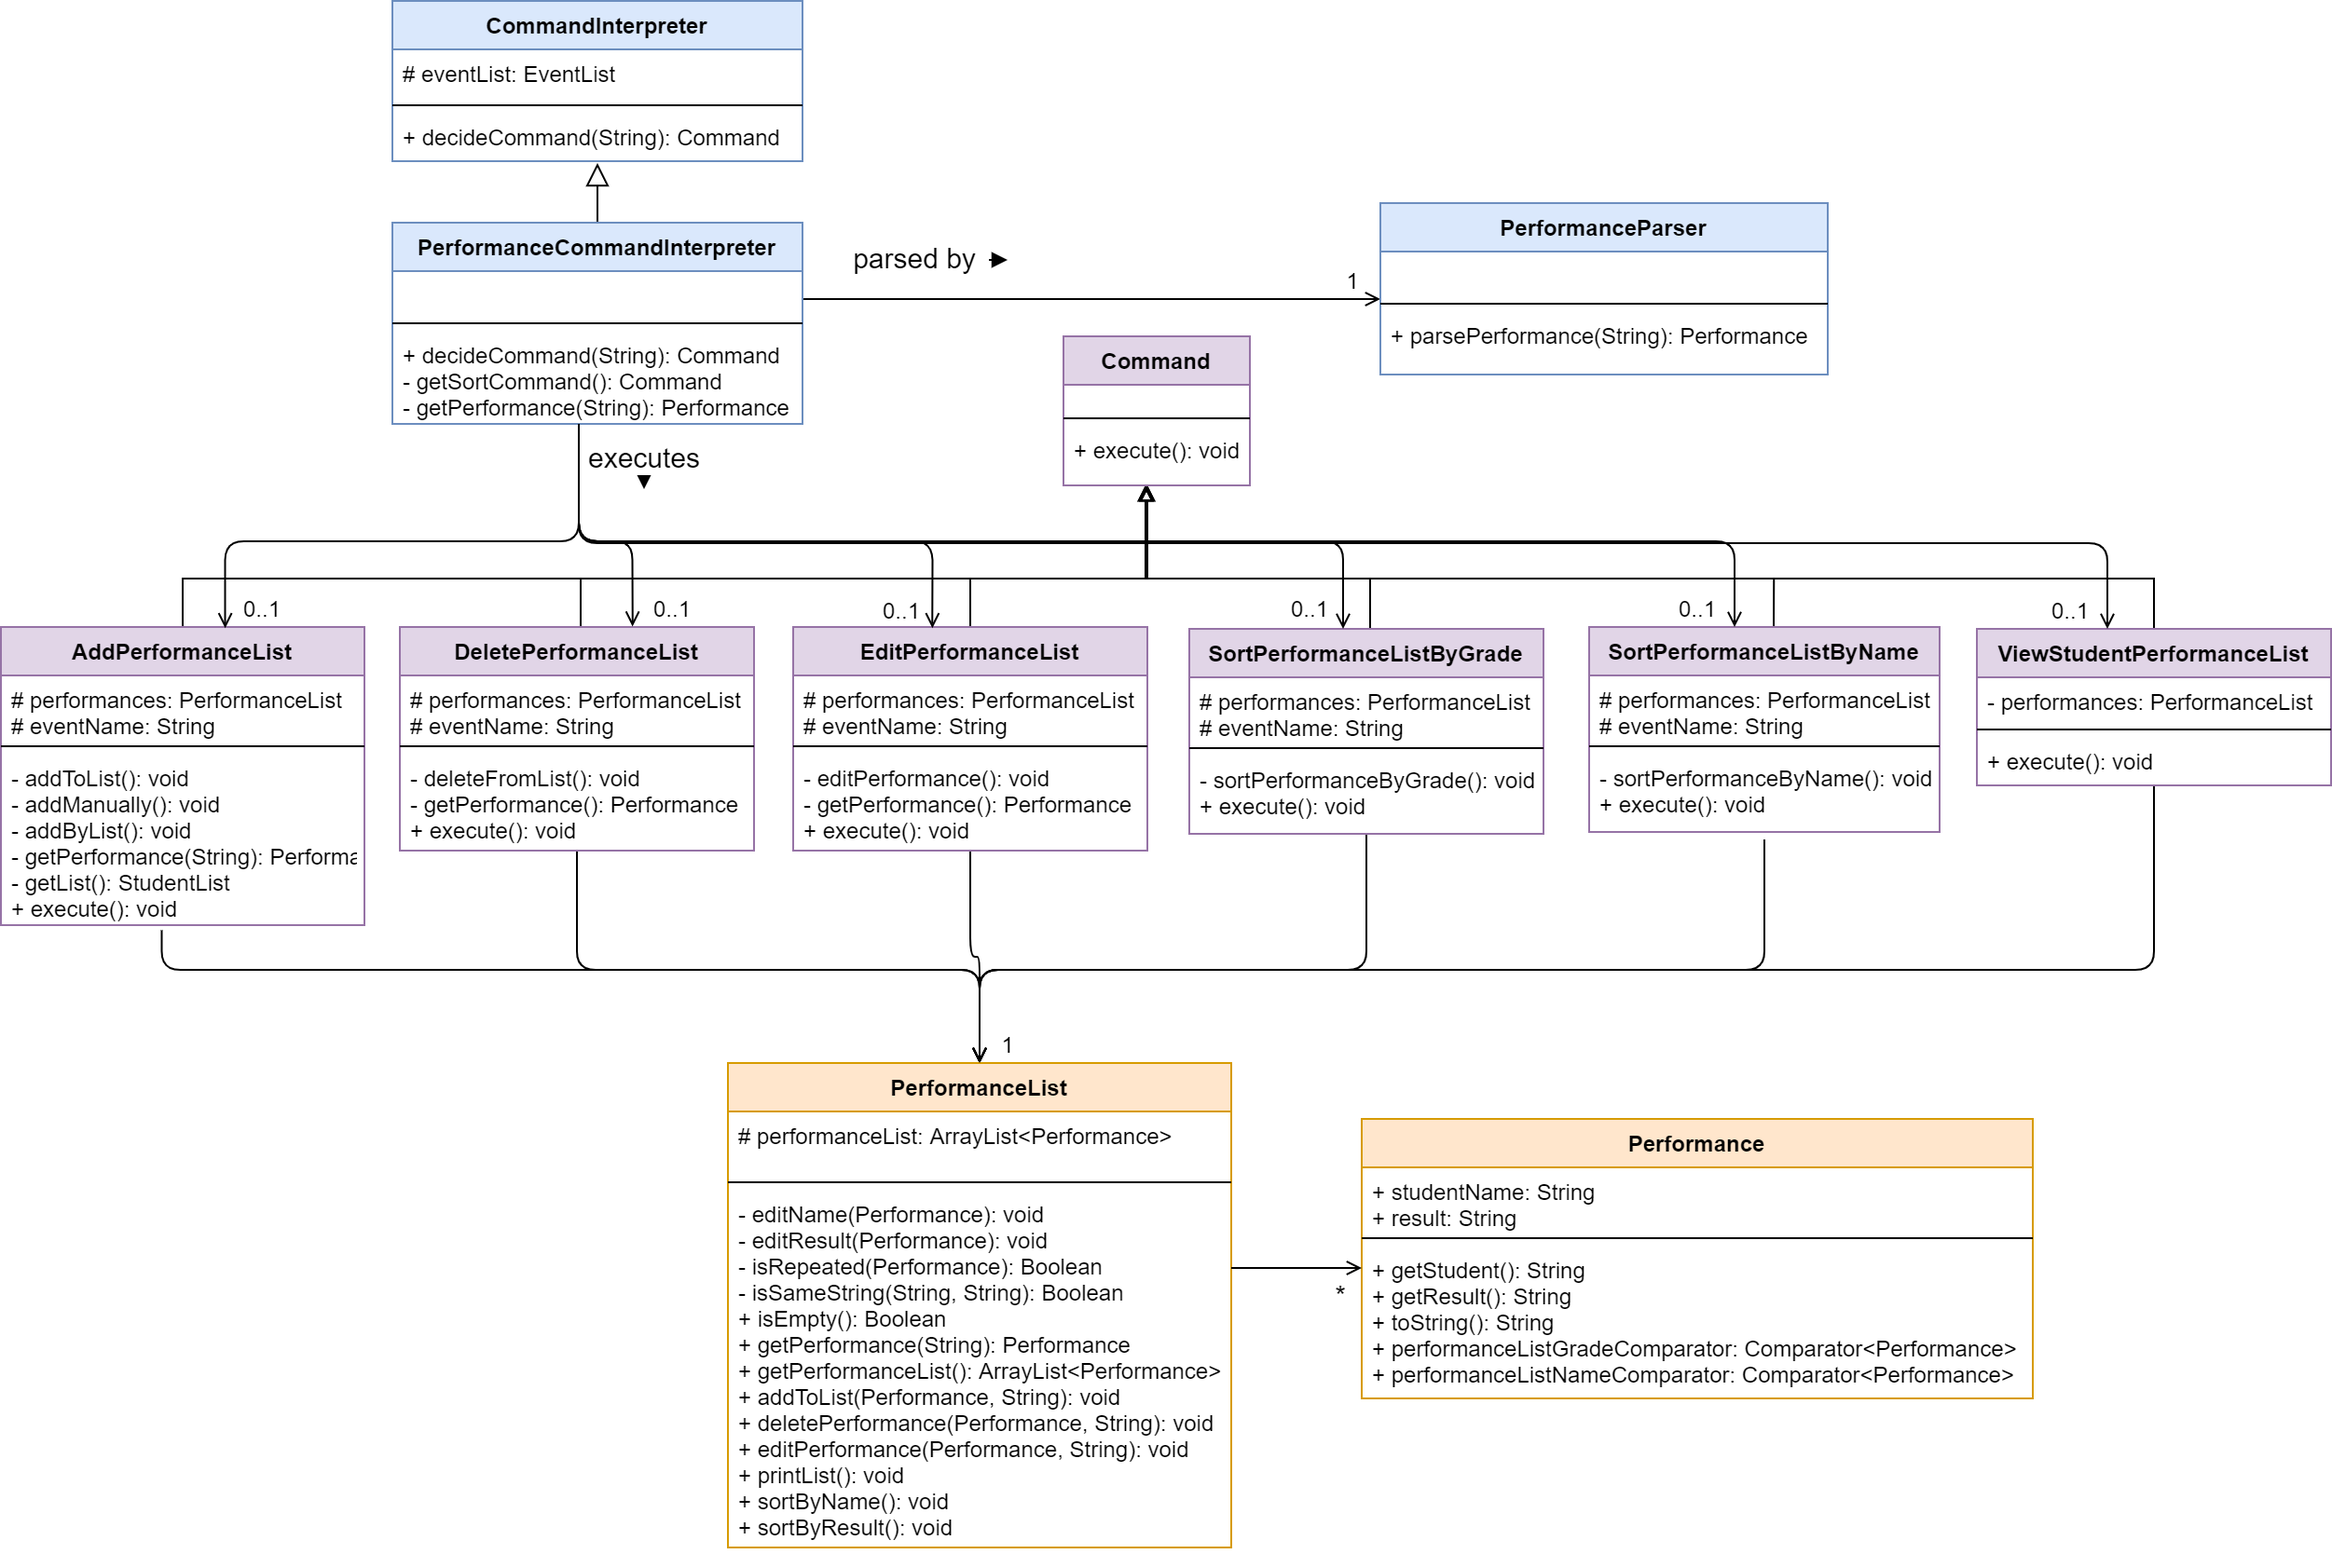
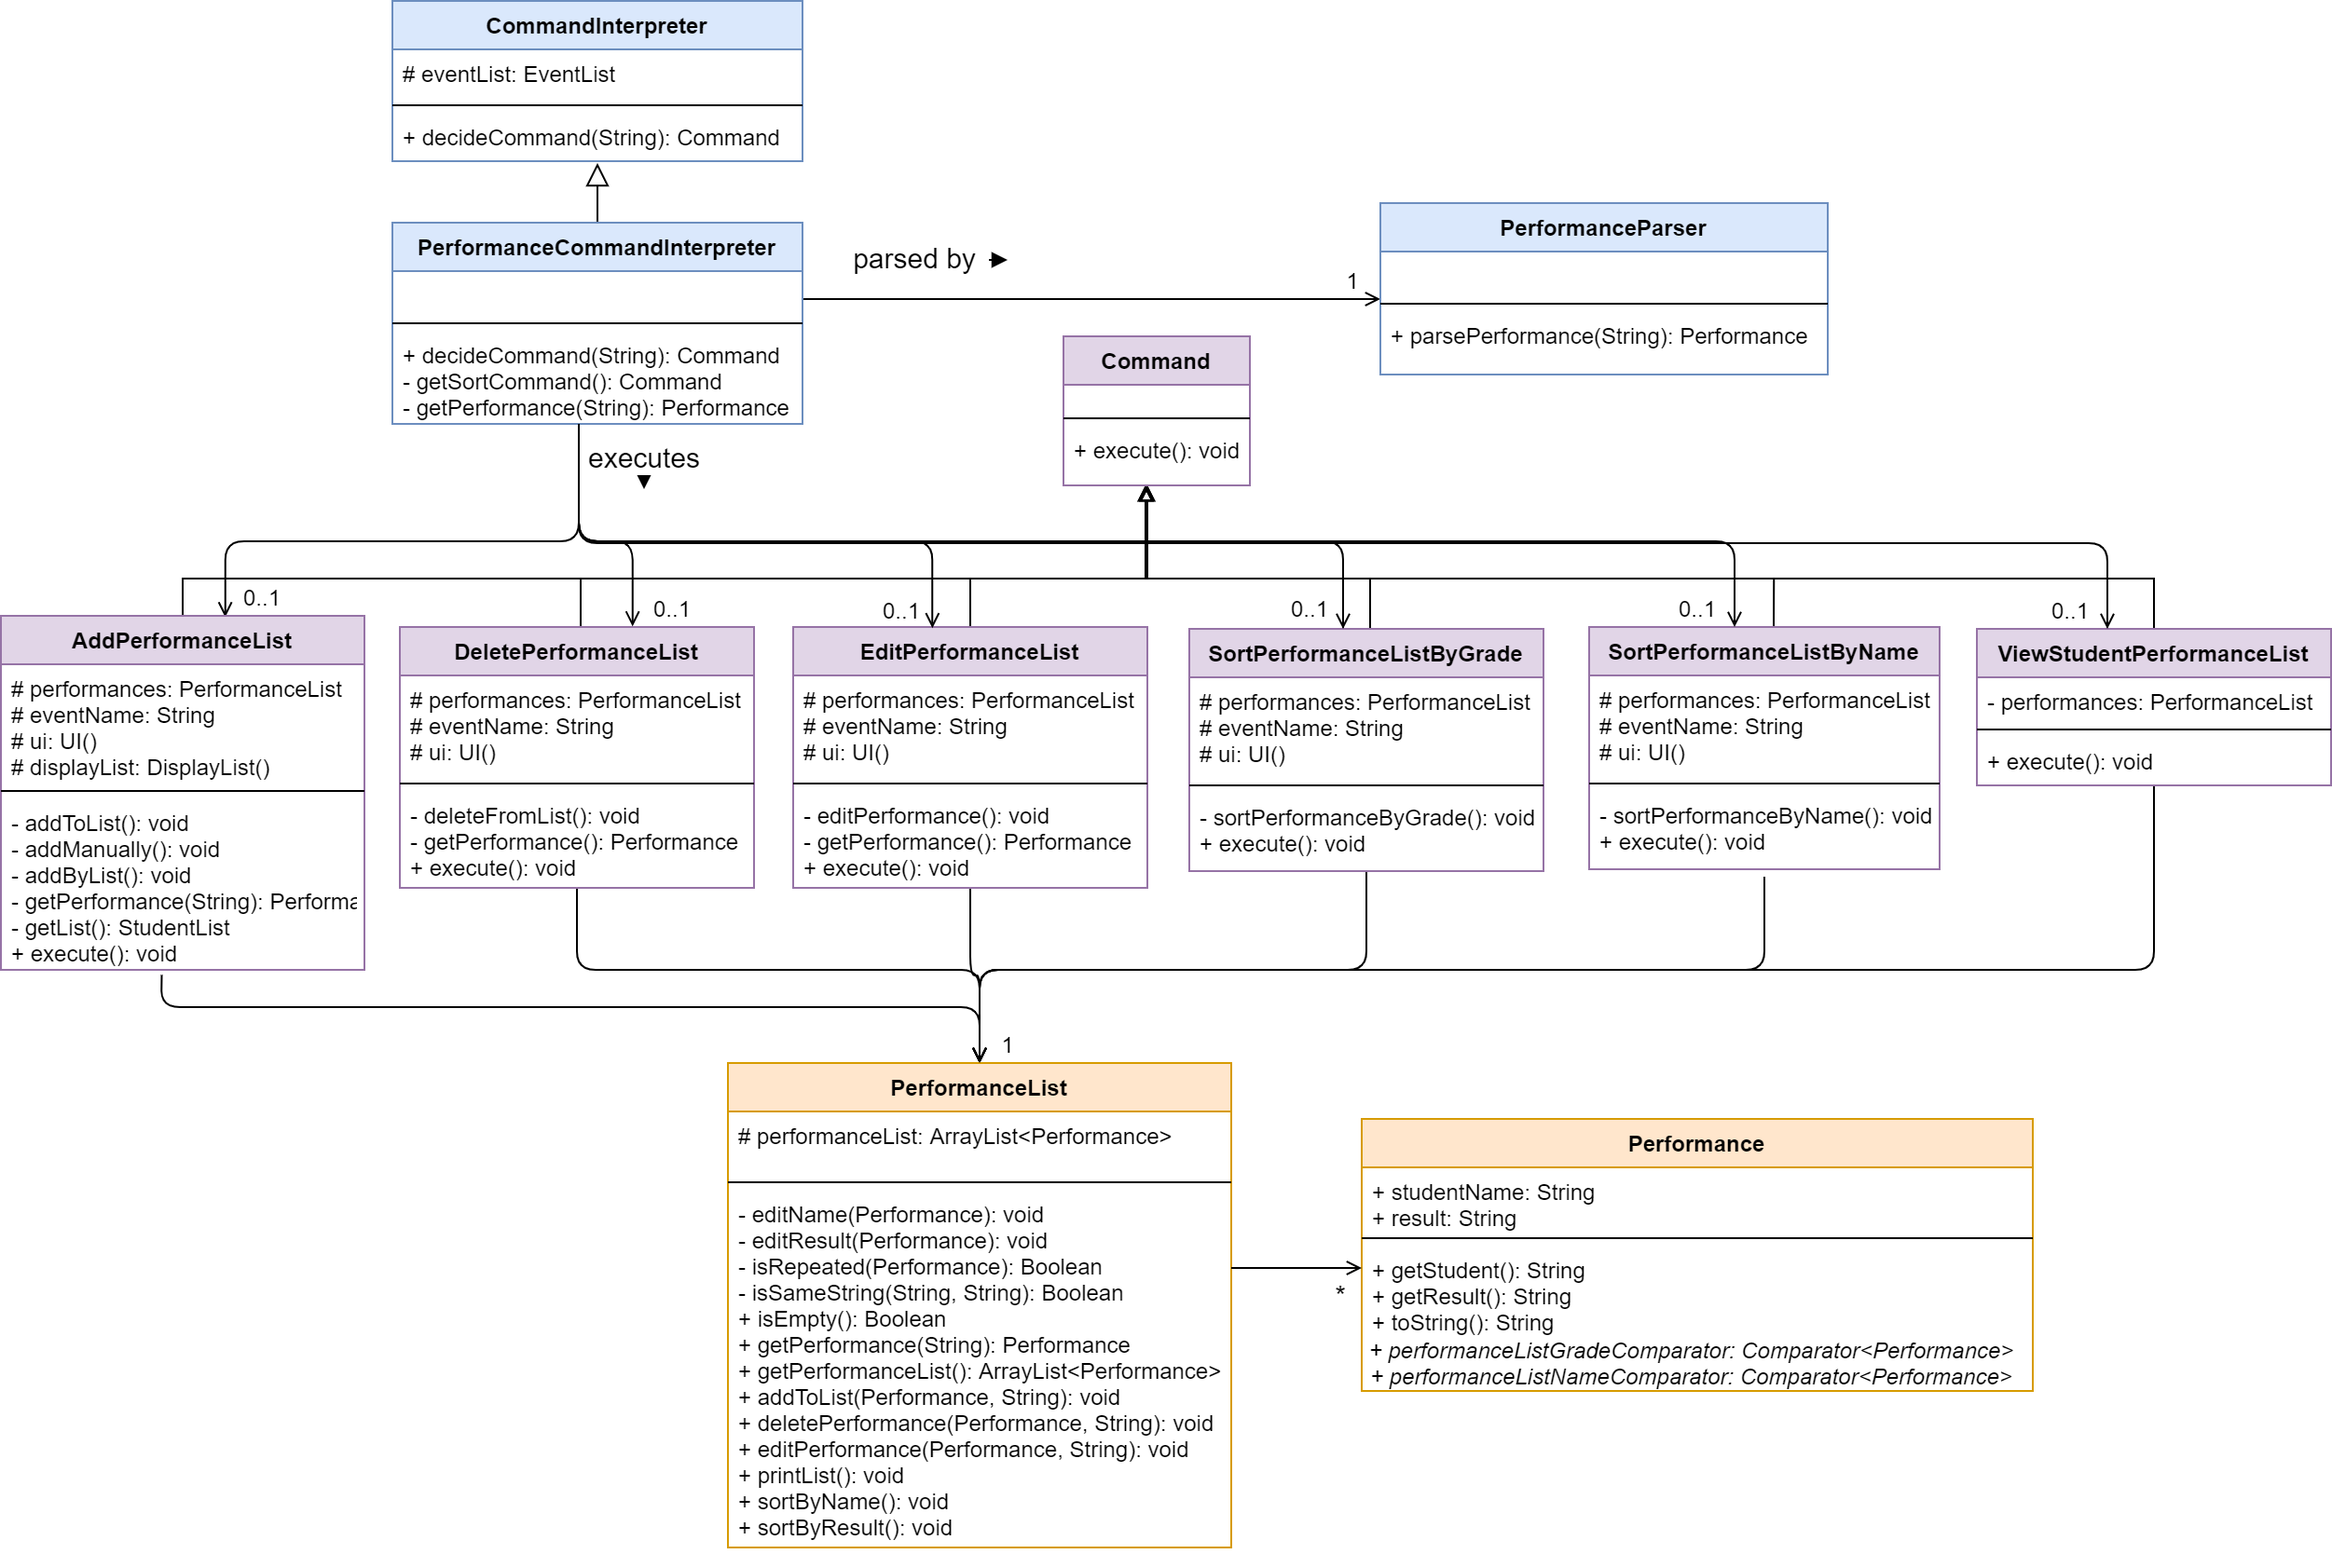
Delete Interpreter section in DG. Update class diagram for Performance. Add short description for each feature at the beginning of each feature.

diff --git a/src/main/java/seedu/command/student/FindStudentList.java b/src/main/java/seedu/command/student/FindStudentList.java
@@ -15,7 +15,6 @@ import static seedu.pac.Pac.studentListCollection;
  */
 public class FindStudentList extends Command {
 
-    private String name;
     protected ArrayList<StudentList> searchResults = new ArrayList<>();
     protected DisplayList displayList = new DisplayList();
     protected UI ui = new UI();
@@ -32,7 +31,7 @@ public class FindStudentList extends Command {
             displayStudentList();
             UI.display("\nPlease state the list name you are searching for");
             ui.readUserInput();
-            name = ui.getUserInput();
+            String name = ui.getUserInput();
             for (int i = 0; i < studentListCollection.size(); i++) {
                 if (studentListCollection.get(i).getListName().toLowerCase().contains(name.toLowerCase())) {
                     searchResults.add(studentListCollection.get(i));
@@ -52,7 +51,7 @@ public class FindStudentList extends Command {
      * Displays studentListCollection.
      */
     private void displayStudentList() {
-        ui.display("Displaying all student list: ");
+        UI.display("Displaying all student list: ");
         ui.printStudentListCollection();
     }
 

diff --git a/docs/DeveloperGuide.md b/docs/DeveloperGuide.md
@@ -16,14 +16,13 @@ Pac. The following groups are in particular the intended audience of the documen
     2.3 [Command component](#23-command-component)  
     2.4 [Parse component](#24-parser-component)  
     2.5 [Storage component](#25-storage-component)  
-    2.6 [Command Interpreter component](#26-command-interpreter-component)  
 3. [Implementation](#3-implementation)  
     3.1 [Event](#31-event)  
     3.2 [Attendance](#32-attendance)  
     3.3 [Calendar](#33-calendar)  
     3.4 [Performance](#34-performance)  
     3.5 [Student List Collection](#35-student-list-collection)
-    3.6 [Help](#36-Help)
+    3.6 [Help](#36-help)
 
 [Appendix A: Target User Profile](#appendix-a-target-user-profile)   
 [Appendix B: Value Proposition](#appendix-b-value-proposition)  
@@ -119,38 +118,11 @@ All `Event` and `StudentList` objects are receiving `Bye` command. If the
 program crashes (due to unhandled Exception or Interrupt), they *will not* be 
 saved.
 
-### 2.6 Command Interpreter component
-![CommandInterpreter](images/CommandInterpreter.png)   
-*to be added: Sequence diagram of Command Interpreter*  
-Command Interpreter is the main interpreter in Pac. It determines which command 
-category the user input belongs to, and creates respective command interpreter 
-correspond to user input.  
-The user input will be further interpreted by corresponding command interpreter, which
-returns Command for execution.  
-
-#### 2.6.1 Event Command Interpreter
-#### 2.6.2 Attendance Command Interpreter
-#### 2.6.3 Performance Command Interpreter
-Performance Command Interpreter interprets the user input when it belongs to the
-performance category. 
-When user input is passed to Performance Command Interpreter, it extracts the 
-second word in the user input and decides whether that string can be interpreted to a
-valid Command. If valid, the interpreter returns its corresponding Command. 
-If invalid, the interpreter throws PacException to inform the user. 
-Below shows the flow chart and sequence diagram of 
-Performance Command Interpreter.  
-![Flow chart](images/PerformanceCommandInterpreterFlowChart.png)  
-*Flow Chart of Performance Command Interpreter*  
-![Sequence diagram](images/PerformanceCommandInterpreterSequenceDiagram.png) 
-*Sequence diagram of Performance Command Interpreter*  
-
-#### 2.6.4 Seminar Command Interpreter
-#### 2.6.5 Student Command Interpreter
-
 ## 3. Implementation  
 ### 3.1 Event
 ![event](images/Event.png "Class diagram of Event component")               
 *Class diagram of the Event component*
+The Event features allow users to update and keep track of their schedules.
 
 #### Program flow
 1. When a user enters an event-related command, the command is analysed by `EventCommandInterpreter`. 
@@ -185,6 +157,7 @@ either by complete match, or fuzzy match.
 ### 3.2 Attendance
 ![attendance](images/Attendance.png "Class diagram of Attendance component")        
 *Class diagram of the Attendance component*
+The Attendance features allow users to update and keep track of their students' attendance for a Event.
 
 #### Program flow
 1. When a user enters an attendance-related command, the command is analysed by `AttendanceCommandInterpreter`. 
@@ -216,6 +189,20 @@ it can be implement to truncate longer names to fit nicely
 ### 3.4 Performance
 ![Performance](images/Performance.png)
 *Class diagram of the Performance component*  
+The Performance features allow users to update and keep track of their students' result for a Event.    
+#### Performance Command Interpreter
+Performance Command Interpreter interprets the user input when it belongs to the
+performance category. 
+When user input is passed to Performance Command Interpreter, it extracts the 
+second word in the user input and decides whether that string can be interpreted to a
+valid Command. If valid, the interpreter returns its corresponding Command. 
+If invalid, the interpreter throws PacException to inform the user. 
+Below shows the flow chart and sequence diagram of 
+Performance Command Interpreter.  
+![Flow chart](images/PerformanceCommandInterpreterFlowChart.png)  
+*Flow Chart of Performance Command Interpreter*  
+![Sequence diagram](images/PerformanceCommandInterpreterSequenceDiagram.png) 
+*Sequence diagram of Performance Command Interpreter*  
 
 #### Program flow
 1. When a user enters a performance-related command, the command is analysed by 
@@ -231,9 +218,10 @@ Note that:
 by its own. 
 * All Performance commands are step-by-step commands. This aims to provide convenience to the user by 
 prompting instructions and correct command format.  
+* All Performance discussed in Pac are constructed with student's name and result.
 
 #### Features under Performance
-There are 5 features for performance in total, as shown below. 
+There are 5 features for Performance in total, as shown below. 
 The features will be presented in the order of sequence diagram, followed by description.  
  
 1. Add performanceList
@@ -301,6 +289,9 @@ Else, it will iterate through the performanceList and print Performance
 data in a table format.  
 
 ### 3.5 Student List Collection
+The Student list features allow users to store a list of student names, which could be used
+when updating students' attendance and performance data conveniently.  
+
 ![Student](images/Student.png "Class diagram of Student component")     
 *Class diagram of the Student component*  
 1. When a user enters an studentList-related command, the command is analysed by `StudentCommandInterpreter`. 
@@ -362,8 +353,6 @@ displayStudentListCollectionEmpty() from UI, to inform the user.
 Else, it calls printStudentListCollection() from UI to print the table. 
 
 1. Edit student list
-
-
 
 
 ### 3.6 Help
@@ -442,6 +431,10 @@ folder in command terminal.
 `event editvenue i/INDEX v/VENUE`  
 
 **Calender**
+The Calender features allow users to view their schedule by semesters. Since our target
+users are professors, this feature allows our target user to manage their schedules in a 
+way which is more related to their daily life.   
+  
 1. Display calendar by entering  
 `calendar s/SEMESTER ay/YEAR_ONE-YEAR_TWO`   
 

diff --git a/docs/team/anqi-nus.md b/docs/team/anqi-nus.md
@@ -100,8 +100,11 @@ when he/she enters `help`.
 
 ### Documentation
 - I have written in the User Guide and Developer Guide for all the features/enhancements I have mentioned above.  
+- I have written in the Developer Guide for add, delete, clear and view functions for Student feature.
 - I have drawn all class diagram and sequence diagram for all the features/enhancements I have mentioned above.  
-- I have drawn sequence diagram for add, delete, clear and view functions for Student List Collection.
+- I have drawn sequence diagram for add, delete, clear and view functions for Student feature.
+- I have drawn class diagram for Student feature.
+
 
 ### Community
 - PRs reviewed (with non-trivial comments)  
